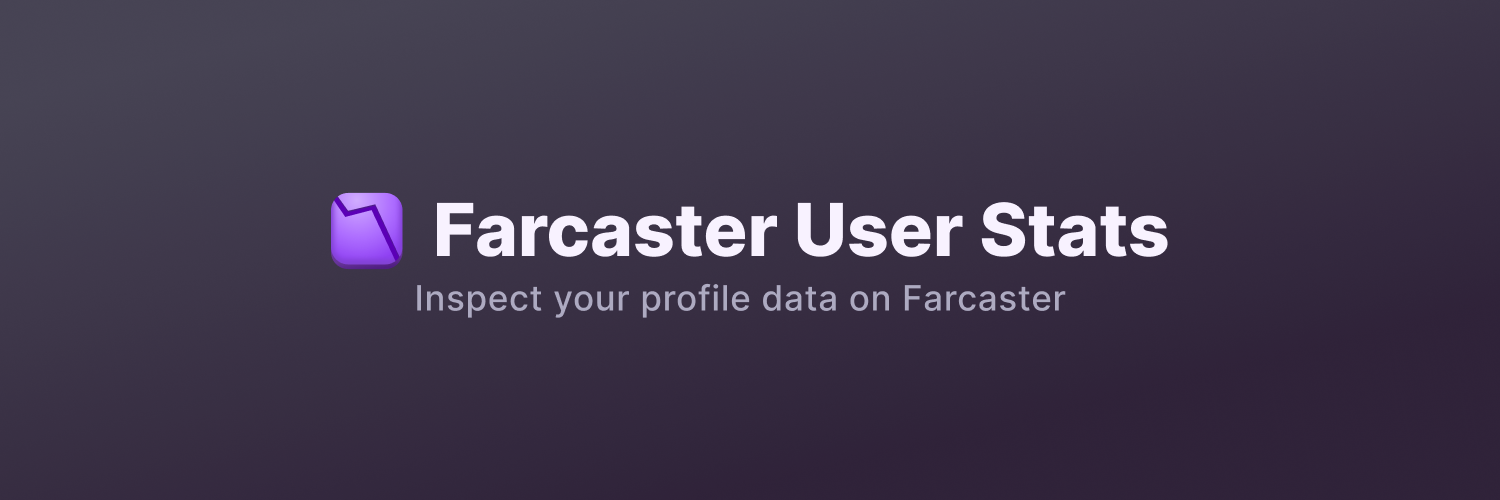
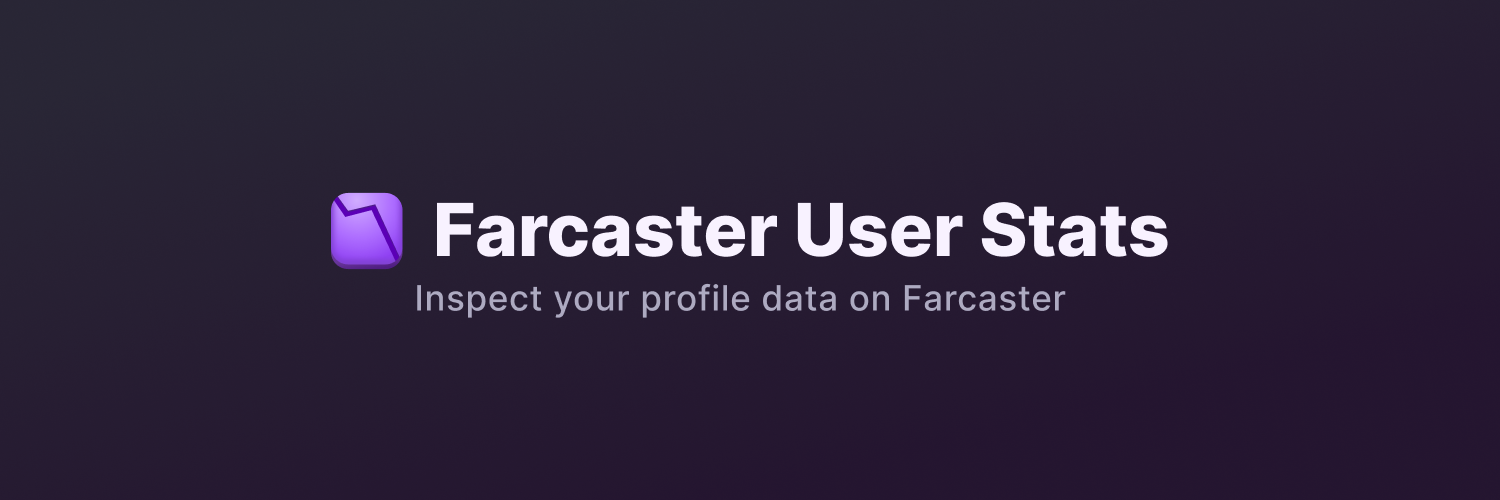
Fixed homepage styling

Changed region(s): [[0.0, 0.0, 0.7973, 0.57]]

diff --git a/src/app/globals.css b/src/app/globals.css
@@ -96,10 +96,8 @@ main {
 .header_h1 {
     display: flex;
     height: 42px;
-    margin-left: auto;
-    margin-right: auto;
-    width: 244px;
-    margin-bottom: 10px;
+    margin-bottom: -8px;
+    margin-left: -24px;
 }
 
 .homepage-hero h1 {
@@ -114,8 +112,9 @@ main {
 
 .homepage-hero p {
     text-align: center;
-    margin-bottom: 24px;
+    margin-bottom: 32px;
     font-size: 17px;
+    color: #a3a0a9;
 }
 
 .recentlyUnfollowed {
